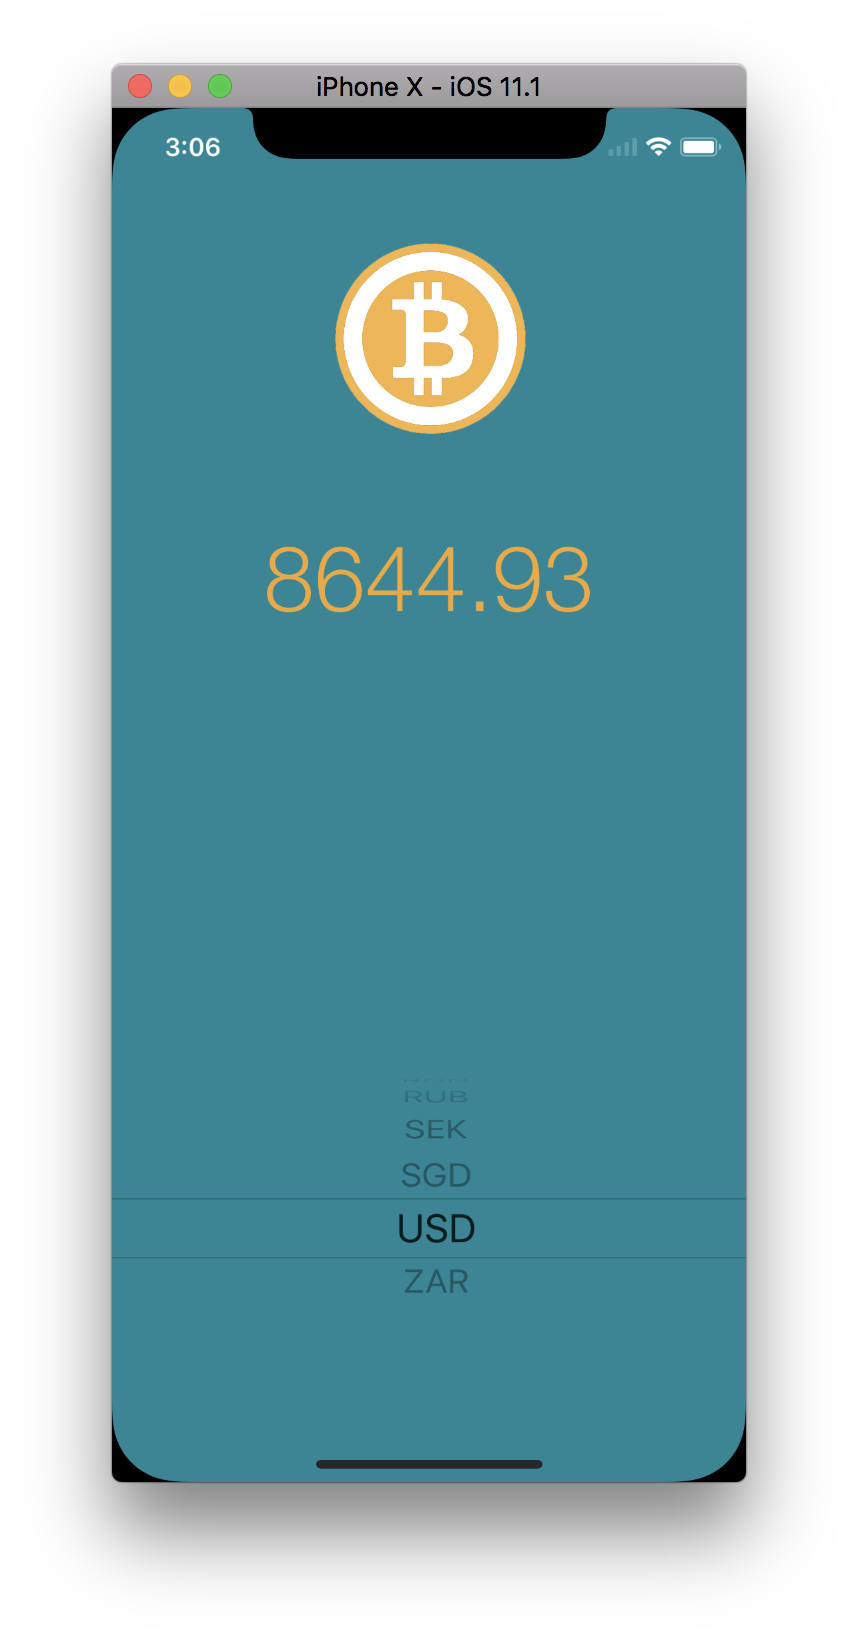
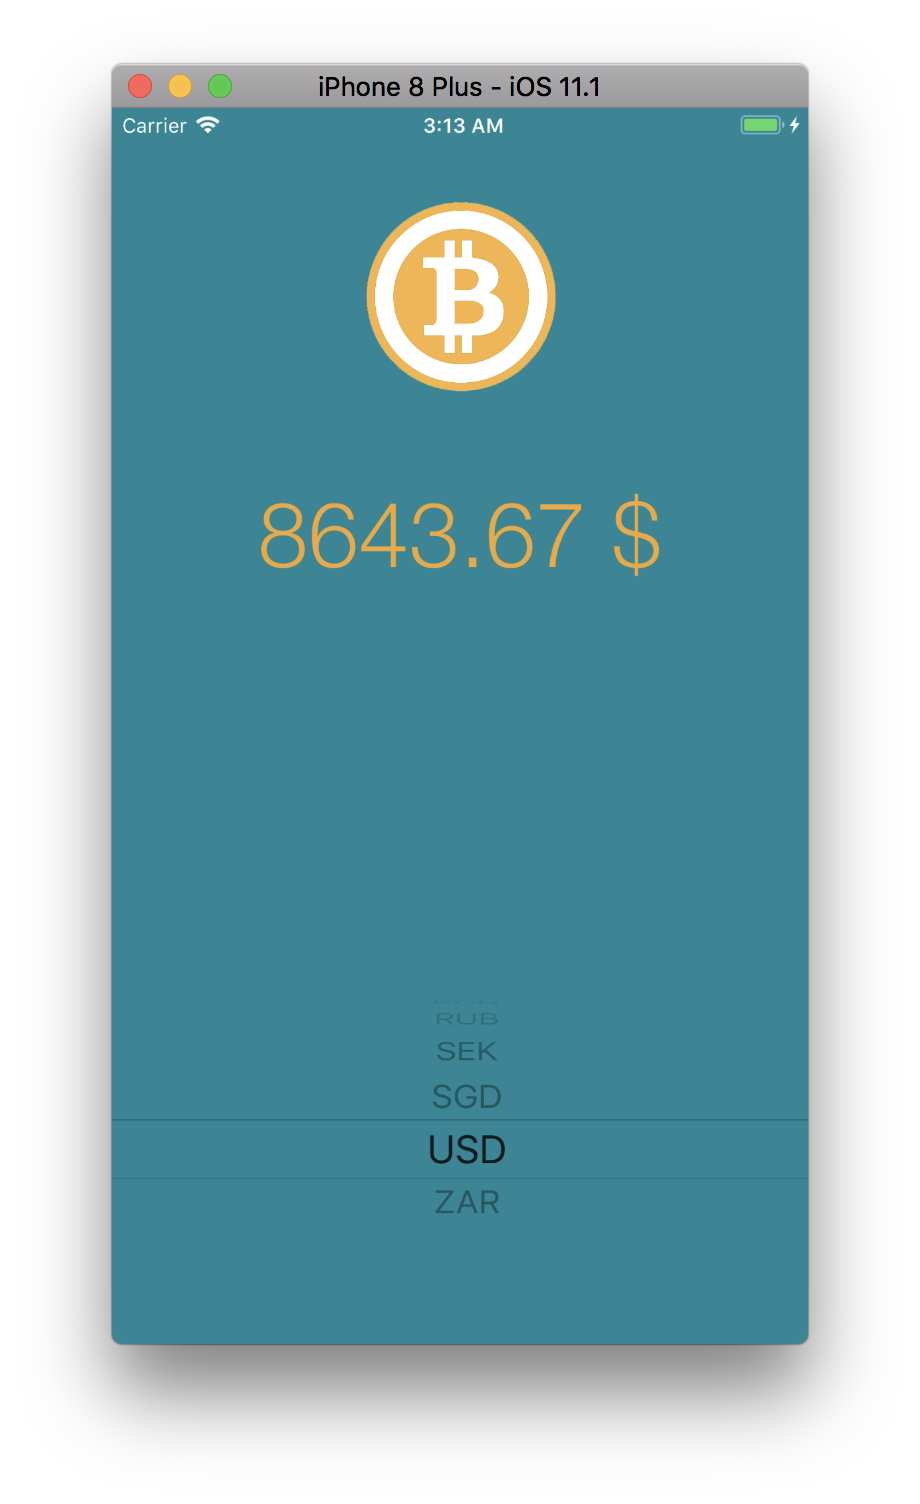
[modify] currency simbol

Changed region(s): [[0.1212, 0.0312, 0.8788, 0.9062], [0.2727, 0.3125, 0.7273, 0.375], [0.4545, 0.6875, 0.5455, 0.8125]]

diff --git a/06_Bitcoin-Ticker/Bitcoin-Ticker-iOS11/BitcoinTicker/ViewController.swift b/06_Bitcoin-Ticker/Bitcoin-Ticker-iOS11/BitcoinTicker/ViewController.swift
@@ -15,6 +15,8 @@ class ViewController: UIViewController, UIPickerViewDelegate, UIPickerViewDataSo
     
     let baseURL = "https://apiv2.bitcoinaverage.com/indices/global/ticker/BTC"
     let currencyArray = ["AUD", "BRL","CAD","CNY","EUR","GBP","HKD","IDR","ILS","INR","JPY","MXN","NOK","NZD","PLN","RON","RUB","SEK","SGD","USD","ZAR"]
+    let currenySimbolArray = ["$", "R$", "$", "¥", "€", "£", "$", "Rp", "₪", "₹", "¥", "$", "kr", "$", "zł", "lei", "₽", "kr", "$", "$", "R"]
+    
     var finalURL = ""
 
     //Pre-setup IBOutlets
@@ -47,7 +49,7 @@ class ViewController: UIViewController, UIPickerViewDelegate, UIPickerViewDataSo
         let currency = currencyArray[row]
         finalURL = "\(baseURL)\(currency)"
         print(finalURL)
-        getPriceData(url: finalURL)
+        getPriceData(url: finalURL, row: row)
     }
     
     
@@ -60,7 +62,7 @@ class ViewController: UIViewController, UIPickerViewDelegate, UIPickerViewDataSo
     //MARK: - Networking
     /***************************************************************/
 
-    func getPriceData(url: String) {
+    func getPriceData(url: String, row: Int) {
         
         Alamofire.request(url, method: .get)
             .responseJSON { response in
@@ -69,8 +71,7 @@ class ViewController: UIViewController, UIPickerViewDelegate, UIPickerViewDataSo
                     print("Sucess! Got the price data")
                     let priceJSON : JSON = JSON(response.result.value!)
 
-                    self.updatePriceData(json: priceJSON)
-
+                    self.updatePriceData(json: priceJSON, row: row)
                 } else {
                     print("Error: \(String(describing: response.result.error))")
                     self.bitcoinPriceLabel.text = "Connection Issues"
@@ -82,15 +83,14 @@ class ViewController: UIViewController, UIPickerViewDelegate, UIPickerViewDataSo
     //MARK: - JSON Parsing
     /***************************************************************/
 
-    func updatePriceData(json : JSON) {
+    func updatePriceData(json : JSON, row: Int) {
 
         if let priceResult = json["averages"]["day"].double {
-            bitcoinPriceLabel.text = String(priceResult)
+            let currenySimbol:String = currenySimbolArray[row]
+            bitcoinPriceLabel.text = String("\(priceResult) \(currenySimbol)")
+            
         }
     }
-
-
-
 
 
 }
